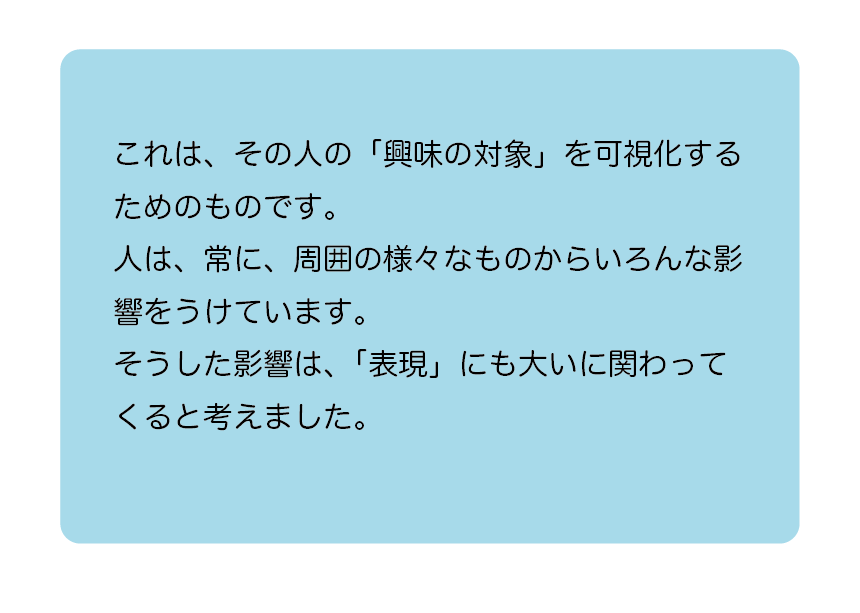
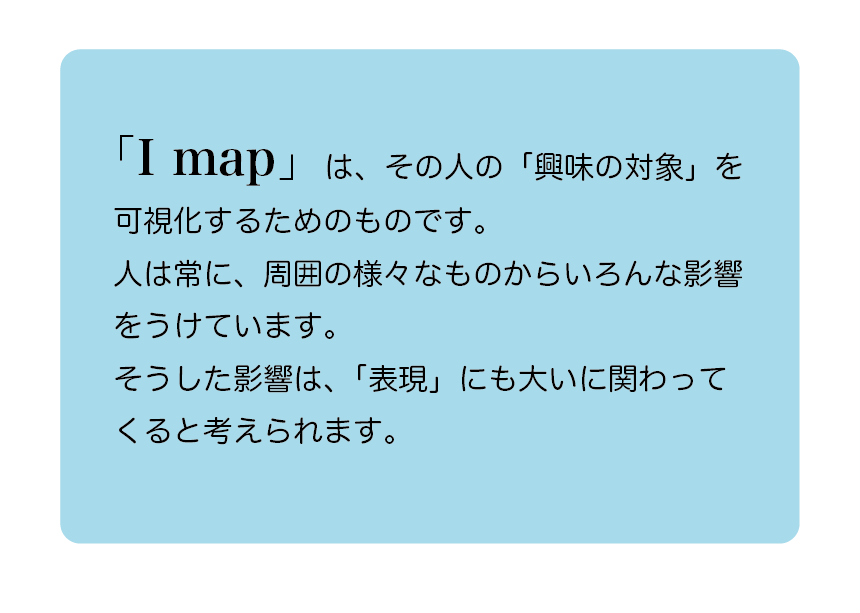
説明画像の変更
説明をちょっとかえました。
画像だと融通聞かない。

Changed region(s): [[0.1209, 0.217, 0.8767, 0.7439]]

diff --git a/index.html b/index.html
@@ -42,7 +42,10 @@
     <img src="img/setsumei-02.png" id = "2" width="50%" style="z-index:2;position: absolute;">
     <img src="img/setsumei-03.png" id = "3" width="50%" style="z-index:3;position: absolute;">
     <img src="img/setsumei-04.png" id = "4" width="50%" style="z-index:4;position: absolute;">
-    <img src="img/setsumei-06.png" id = "5" width="50%" style="z-index:5;position: absolute;">
+    <img src="img/setsumei-05.png" id = "5" width="50%" style="z-index:5;position: absolute;">
+    <img src="img/setsumei-06.png" id = "6" width="50%" style="z-index:6;position: absolute;">
+    <img src="img/setsumei-07.png" id = "7" width="50%" style="z-index:7;position: absolute;">
+
     </p>
     <div id="under">
     <div class="button" id="next">次へ</div>
@@ -77,8 +80,8 @@
       <span class="pointup">50個の単語</span>が提示されます。<br>
       表示された言葉に対して、
       <span class="pointup">「興味がある」</span>か、
-      <span class="pointup">「興味がない」</span>かを判断し、ボタンをクリックしてください。<br/>(キーボードの方向キー「←」「→」「↓」に対応しています。) </span><br/>
-      クリックすると次の単語に変わります。なるべく直感で判断してください。<br/>
+      <span class="pointup">「興味がない」</span>かを判断し、ボタンをクリックしてください。<br/>(キーボードの方向キー「←」「→」に対応しています。) <br/>
+      クリックすると次の単語に変わります。なるべく直感で判断してください。</span><br/>
       </p>
 
       <form name="data_set">

diff --git a/js/ipop.js b/js/ipop.js
@@ -19,6 +19,9 @@ $(function()
     $('#3').hide();
     $('#4').hide();
     $('#5').hide();
+    $('#6').hide();
+    $('#7').hide();
+
 
     // ウインドウの座標を画面中央にする。
 
@@ -40,7 +43,7 @@ $(function()
     $('#next').click(function(){
 
           $("#"+i).fadeOut(500);
-          if(i==4){
+          if(i==6){
             $('#next').hide();
             $('#ipop_close_button').show();
           }

diff --git a/cf_visualize.js b/cf_visualize.js
@@ -1,5 +1,5 @@
 
-function loadJsonFromPHP($phpname)
+function loadJsonFromPHP(phpname)
 {
 	var json = null;
 	$.ajax(
